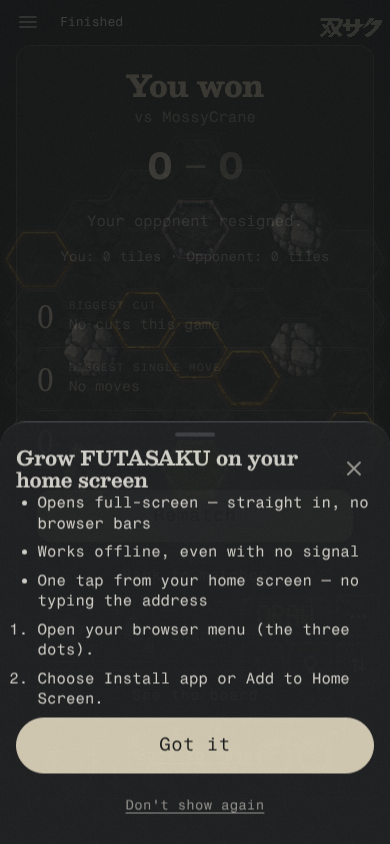
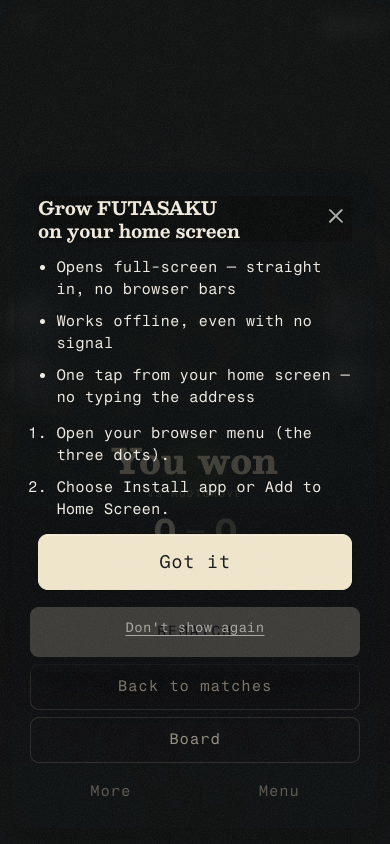
fix(install): the home-screen invitation is a dialog with room, not a bottom sheet
Owner, 2026-10-24: "grow futasaku on ur home screen looks so cramped — that can
never happen. stretch the dark glass and blur background so it's nice".

It was the last bottom sheet in the game, and every symptom followed from that:
4px of air above a title running the full width with the close key laid over the
end of it, no measure at all, and on a tablet a 748px strip stretched across the
bottom of the screen.

Now it is a centred plate on the glass, the same family as the pause panel and
the challenge card:

- CENTRED BY ITS OWN CONTAINER (grid + place-items). The card is static and names
  `transform: none`, because the sheet family's wide-screen centring sets
  left/top 50% plus a -50% transform — with a grid-centred box that transform
  moved the card half its own size up and to the LEFT, hanging it off the top of
  a desktop window (measured: y = -63 at 1280x800).
- ROOM: 24px padding, a 480px measure, and the title on its own line beside the
  close key instead of centred under it. `text-wrap: balance` so a two-line title
  never strands one word.
- A HARDER VEIL than a sheet's: blur(20px) brightness(.5) over a 38% shade. This
  is the one invitation that opens over a finished game, so the glass has to be
  the only thing in focus.
- SHORT SCREENS tighten the rhythm one step (max-height: 700px) instead of turning
  the plate into a scroller: at 320x568 it is 457px of 568 with nothing clipped.
  No words are dropped and no touch target shrinks.
[…]

diff --git a/web/src/style.css b/web/src/style.css
@@ -7681,6 +7681,128 @@ html.futasaku-product .sheet .sheet-head {
   -webkit-backdrop-filter: var(--dark-glass-blur);
   backdrop-filter: var(--dark-glass-blur);
 }
+
+/* ---------- THE INSTALL INVITATION, AS A DIALOG ON THE GLASS ----------
+   Owner, 2026-10-24: "grow futasaku on ur home screen looks so cramped — that can never happen.
+   stretch the dark glass and blur background so it's nice".
+   It was the last bottom sheet in the game, and on a phone it showed why: 4px of air above a
+   title running the full width with the close key laid over the end of it, no measure, and on a
+   tablet it stretched into a 748px strip. It is now a centred plate with room on every side, a
+   readable measure, and the page behind it properly veiled. It wears the same glass family as the
+   pause panel and the challenge card; nothing here is a new surface style, it is the old one
+   finished. Placed after the sheet rules above so it has the last word on this one card. */
+html.futasaku-product #install-prompt {
+  display: grid;
+  place-items: center;
+  padding: max(16px, env(safe-area-inset-top)) max(14px, env(safe-area-inset-right))
+           max(16px, env(safe-area-inset-bottom)) max(14px, env(safe-area-inset-left));
+}
+/* A deeper blur and a darker shade than a sheet's own scrim: this is the one invitation that opens
+   over a finished game, so the glass has to be the only thing in focus. */
+html.futasaku-product #install-prompt > .install-prompt-scrim {
+  background: color-mix(in srgb, var(--c-bg) 38%, transparent);
+  -webkit-backdrop-filter: blur(20px) brightness(0.5) saturate(0.9);
+  backdrop-filter: blur(20px) brightness(0.5) saturate(0.9);
+}
+html.futasaku-product #install-prompt > .install-sheet.sheet {
+  /* STATIC, not fixed: the container grid centres this card, so no viewport anchoring from the
+     bottom-sheet rules can pull it out of place. (Left over from the sheet family, those offsets
+     were the reason the card could hang off the top of a desktop window.) */
+  position: static;
+  /* The wide-screen dialog rule centres a sheet with `left/top: 50%` plus a -50% transform. The
+     grid below already centres this card, so that transform would shift it half its own size up
+     and to the left (a card hanging off the top of a desktop window). Offsets are inert on a static
+     box; the transform is not, so it is named here. */
+  inset: auto;
+  transform: none;
+  width: min(100%, 30rem);
+  max-height: 100%;
+  padding: 24px 24px 20px;
+  border-radius: 18px;
+  /* A plate lifted off the table, not a sheet sliding up: the arrival is the motion layer's
+     (enterSurface in logic/install.ts), so the bottom-sheet keyframe stands down. */
+  animation: none;
+  box-shadow: 0 22px 60px rgba(0, 0, 0, 0.34);
+}
+/* The title is a sentence, not a label: it sits on the card's own left edge like the list under
+   it, and only the close key's width is reserved at the right. Centring a two-line sentence over
+   left-aligned bullets was most of what read as cramped. */
+html.futasaku-product #install-prompt .sheet-head {
+  justify-content: flex-start;
+  padding: 0;
+}
+html.futasaku-product #install-prompt #install-title {
+  flex: 1;
+  min-width: 0;
+  padding: 0 8px 0 0;
+  text-align: left;
+  font-size: clamp(1.15rem, 4.6vw, 1.32rem);
+  line-height: 1.25;
+  /* A two-line sentence must not leave one word stranded on the second line — that orphan was the
+     "cramped" reading more than any measurement was. */
+  text-wrap: balance;
+}
+html.futasaku-product #install-prompt .sheet-head > .icon-only:last-child {
+  position: static;
+  translate: none;
+  flex: none;
+  margin: -6px -8px 0 0;
+}
+/* The body breathes: one gap scale for the list and the keys, and room under the title. */
+html.futasaku-product #install-prompt .sheet-body {
+  gap: 14px;
+  margin-top: 14px;
+}
+html.futasaku-product #install-prompt :is(.install-why, .install-steps) {
+  gap: 10px;
+  padding-left: 1.15rem;
+}
+html.futasaku-product #install-prompt :is(.install-why, .install-steps) li {
+  line-height: 1.45;
+}
+/* Both keys are the card's width: one clear primary, one quiet way out, and the "don't show
+   again" line under them as a text key. A stacked pair reads at a glance; a half-width pair in a
+   narrow measure does not. */
+html.futasaku-product #install-prompt .install-sheet .btn.primary.big,
+html.futasaku-product #install-prompt .install-sheet .btn.ghost {
+  width: 100%;
+}
+/* A short screen has less height than these words need (320x568, 360x640, a phone on its side).
+   The type steps down one size and the rhythm tightens, so the card stays a dialog with air around
+   it instead of filling the whole screen and scrolling. NO words are dropped and no touch target
+   shrinks: only the space between them does. */
+@media (max-height: 700px) {
+  html.futasaku-product #install-prompt > .install-sheet.sheet {
+    padding: 18px 18px 15px;
+  }
+  html.futasaku-product #install-prompt #install-title {
+    font-size: 1.08rem;
+    line-height: 1.22;
+  }
+  html.futasaku-product #install-prompt .sheet-body {
+    margin-top: 10px;
+    gap: 10px;
+  }
+  html.futasaku-product #install-prompt :is(.install-why, .install-steps) {
+    gap: 6px;
+    padding-left: 1rem;
+    font-size: 0.88rem;
+  }
+  html.futasaku-product #install-prompt :is(.install-why, .install-steps) li {
+    line-height: 1.3;
+  }
+}
+/* A phone on its side has less height than the card wants: keep it on the glass and let the body
+   scroll, never clip a key. */
+@media (orientation: landscape) and (max-height: 560px) {
+  html.futasaku-product #install-prompt > .install-sheet.sheet {
+    padding: 16px 18px;
+    max-height: calc(100dvh - 20px);
+    overflow-y: auto;
+  }
+  html.futasaku-product #install-prompt .sheet-body { margin-top: 10px; gap: 10px; }
+}
+
 /* A phone on its side (owner, 2026-10-24: "the tiniest margin above and below the board"): the
    cards and controls stand on the right, centred, so nothing needs the home bar's strip at the
    bottom; the board uses it, and keeps the same few pixels above as below. */

diff --git a/web/tests/glass-sheets.test.ts b/web/tests/glass-sheets.test.ts
@@ -68,6 +68,49 @@ describe('the dark glass is the lesson window\'s own recipe', () => {
   });
 });
 
+describe('the install invitation is a dialog on the glass, not a bottom sheet (owner, 2026-10-24)', () => {
+  // "grow futasaku on ur home screen looks so cramped — that can never happen. stretch the dark
+  // glass and blur background so it's nice". The rules that stop it regressing are pinned here;
+  // the four sizes (320x568, 390x844, 768x1024, 1280x800) were measured in a real browser.
+  const block = css.slice(
+    css.indexOf('THE INSTALL INVITATION, AS A DIALOG ON THE GLASS'),
+    css.indexOf('/* ONE TITLE PATTERN'),
+  );
+
+  it('the card is centred by its own container, with air on every side', () => {
+    expect(block).toMatch(/#install-prompt \{\s*display: grid;\s*place-items: center;/);
+    expect(block).toMatch(/padding: max\(16px, env\(safe-area-inset-top\)\)/);
+  });
+
+  it('nothing can anchor it to a window edge', () => {
+    // STATIC, and the wide-screen dialog centring (left/top 50% + a -50% transform) is named: that
+    // transform moved the card half its own size up and to the LEFT, hanging it off a desktop
+    // window's top. Offsets are inert on a static box; the transform is not.
+    expect(block).toMatch(/position: static;/);
+    expect(block).toMatch(/transform: none;/);
+    expect(block).toMatch(/inset: auto;/);
+    expect(block).not.toMatch(/bottom: max\(10px/);
+  });
+
+  it('the title owns its line and the close key cannot sit on the words', () => {
+    // The sheet family places the close ABSOLUTELY at the right and centres the title under it.
+    // For a sentence-length title that is what read as cramped, so this card puts both in flow.
+    expect(block).toMatch(/#install-prompt \.sheet-head > \.icon-only:last-child \{\s*position: static;/);
+    expect(block).toMatch(/#install-prompt #install-title \{[^}]*text-align: left;/);
+    expect(block).toMatch(/text-wrap: balance;/);
+    expect(block).toMatch(/font-size: clamp\(1\.15rem, 4\.6vw, 1\.32rem\);/);
+  });
+
+  it('the page behind it is veiled harder than a sheet is, because it opens over a finished game', () => {
+    expect(block).toMatch(/backdrop-filter: blur\(20px\) brightness\(0\.5\) saturate\(0\.9\);/);
+  });
+
+  it('a short screen tightens the rhythm rather than turning the plate into a scroller', () => {
+    expect(block).toMatch(/@media \(max-height: 700px\)/);
+    expect(block).toMatch(/font-size: 0\.88rem;/);
+  });
+});
+
 describe('Match Intel\'s own glass has no frame either', () => {
   it('blur, shade and a soft drop shadow; no border and no inset edge line', () => {
     const surface = readFileSync(fileURLToPath(new URL('../src/player/glass-surface.ts', import.meta.url)), 'utf8');

diff --git a/web/e2e/install-prompt.ts b/web/e2e/install-prompt.ts
@@ -58,7 +58,11 @@ try {
   // channel.ts prefixes every storage key, so read it unprefixed inside the page.
   check((await winner.page.evaluate(() => localStorage.getItem('severgrow.install-prompt.v1'))) !== null, 'online win: the count is written to the device');
   await winner.page.click('#install-never');
-  await winner.page.waitForSelector(PROMPT, { state: 'attached', timeout: 5_000 }).catch(() => undefined);
+  // The invitation leaves on the shared exit beat (interface-motion: 180ms out), and only then is
+  // the node hidden. Sampling it on the same tick as the tap read a surface that was closing as one
+  // that had not closed; the assertion is unchanged, it is simply taken on the settled state.
+  // Measured: opacity 1 -> 0 over 170ms, hidden at ~214ms.
+  await winner.page.waitForSelector('#install-prompt', { state: 'hidden', timeout: 5_000 }).catch(() => undefined);
   check(await winner.page.locator('#install-prompt').isHidden(), 'dismissing closes the invitation');
   const saved = await winner.page.evaluate(() => localStorage.getItem('severgrow.install-prompt.v1') ?? '');
   check(saved.includes('"never":true'), '"Don\'t show again" is saved forever on the device');
